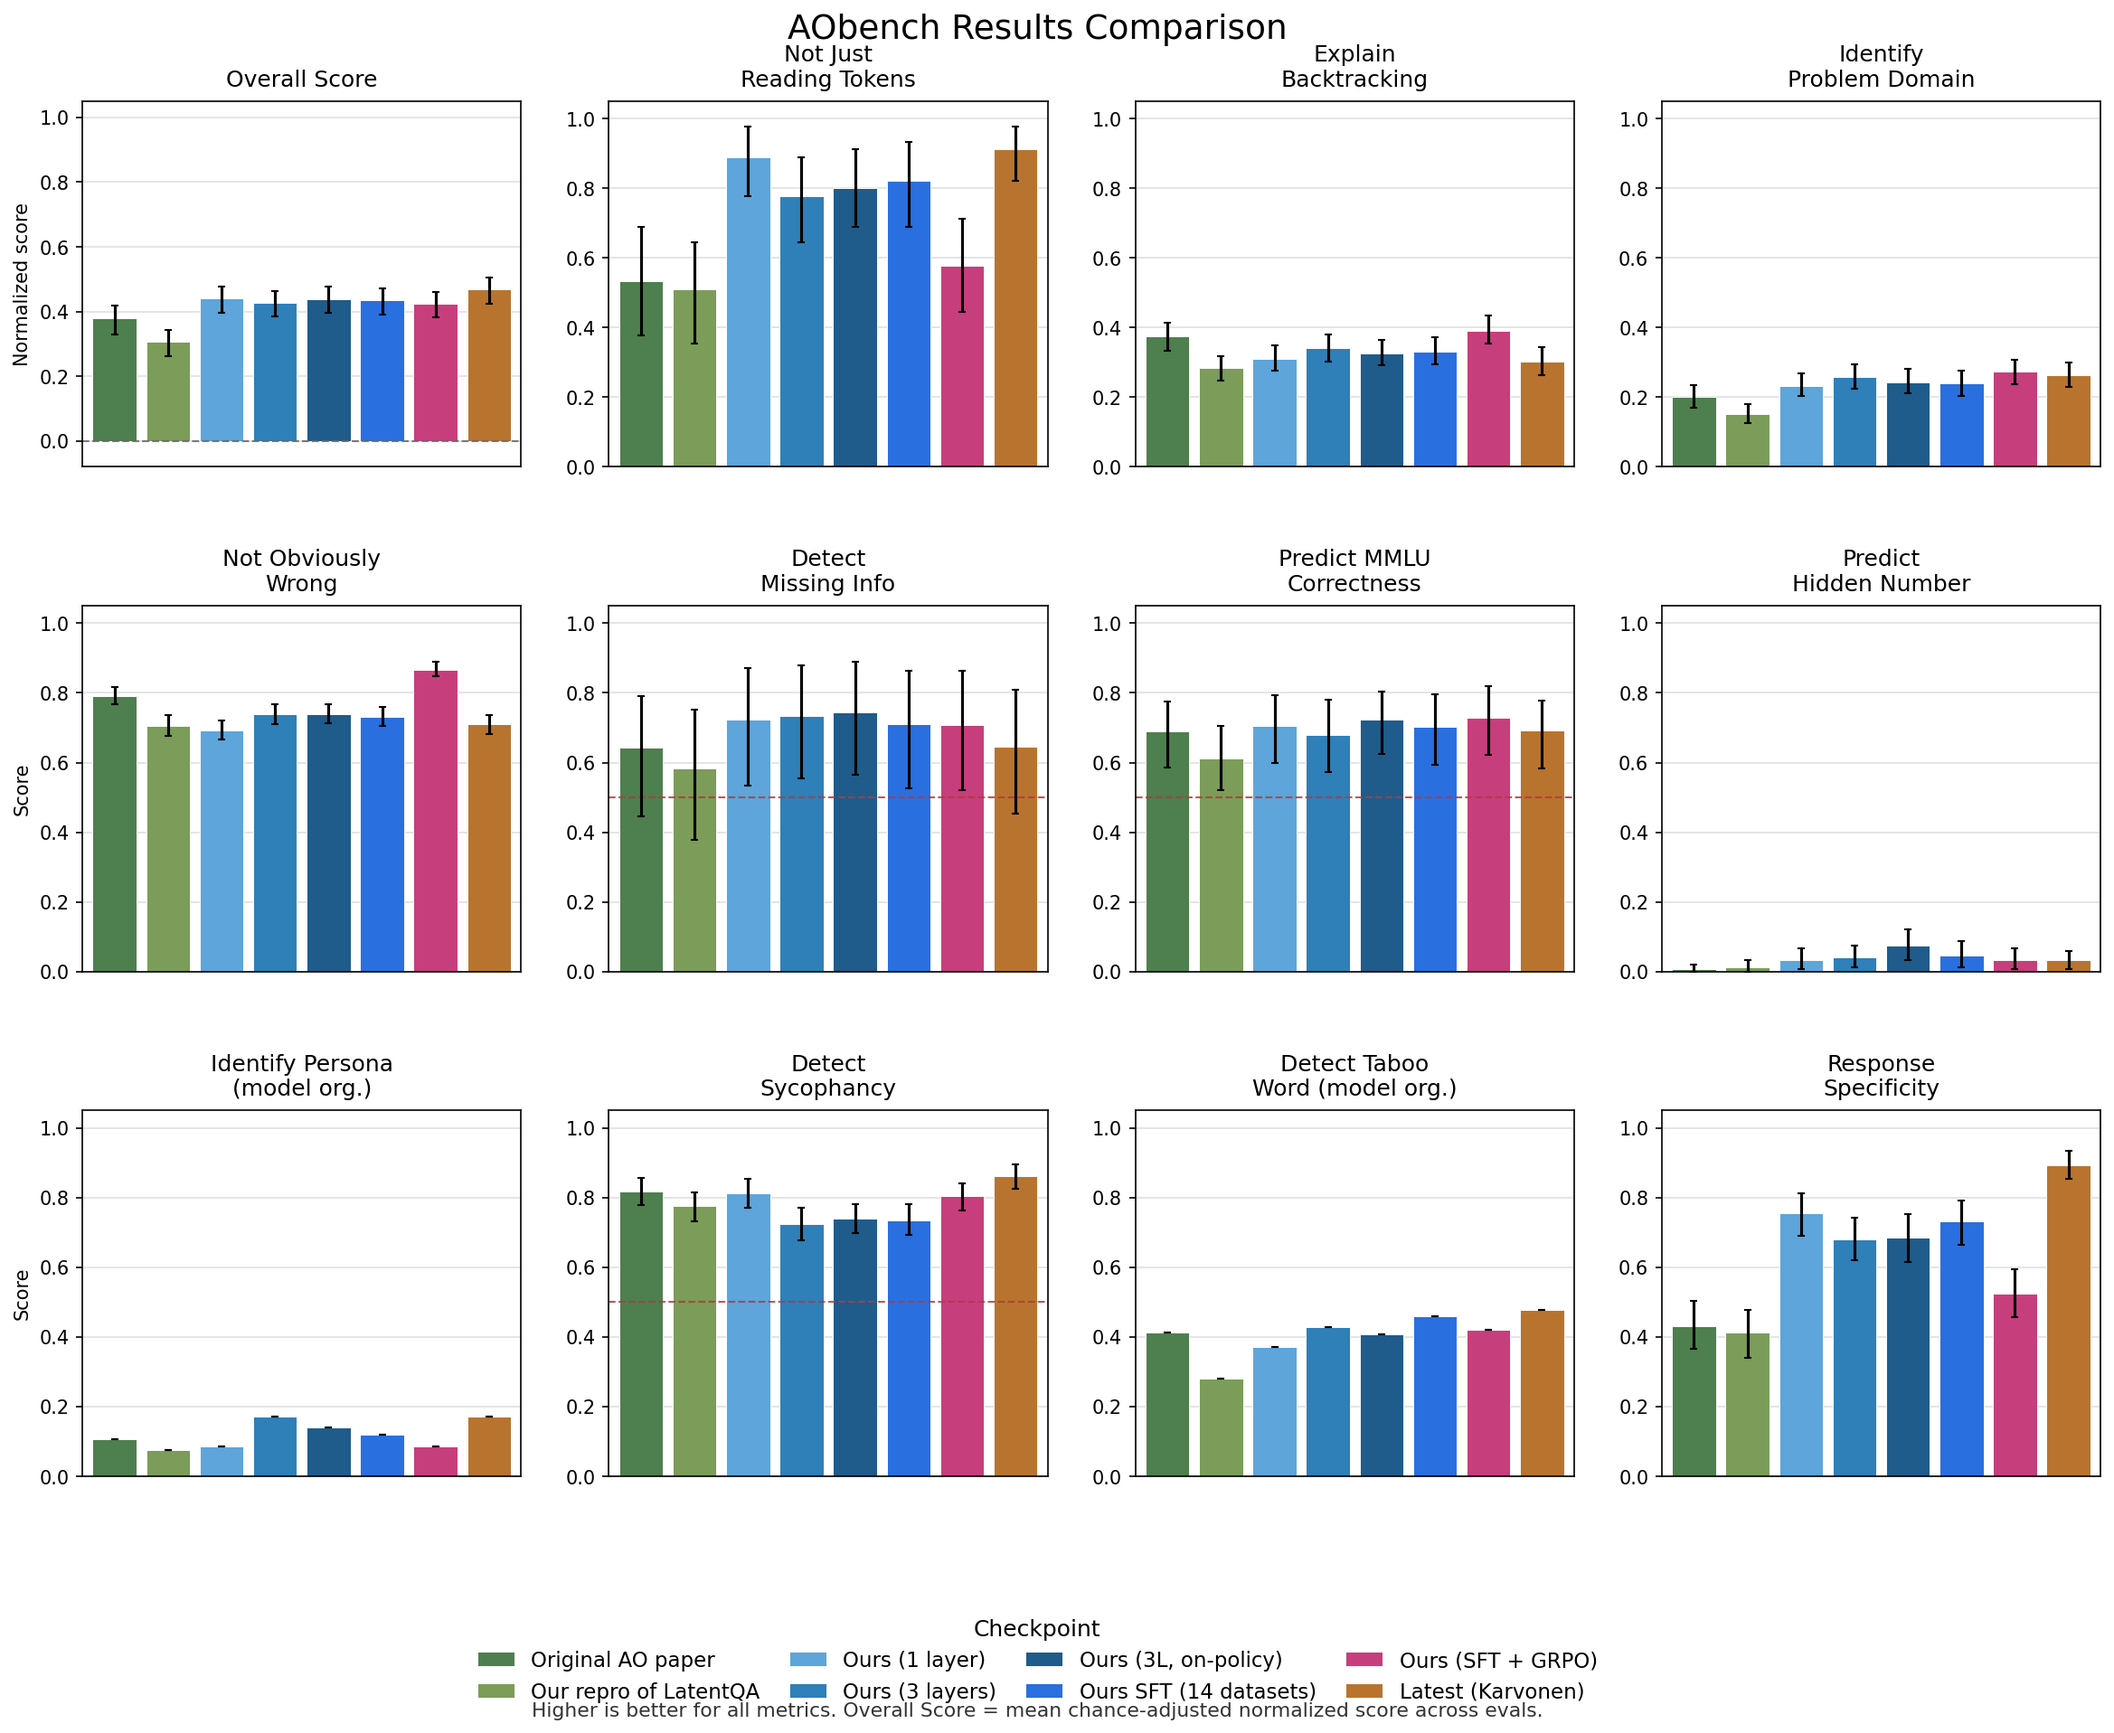
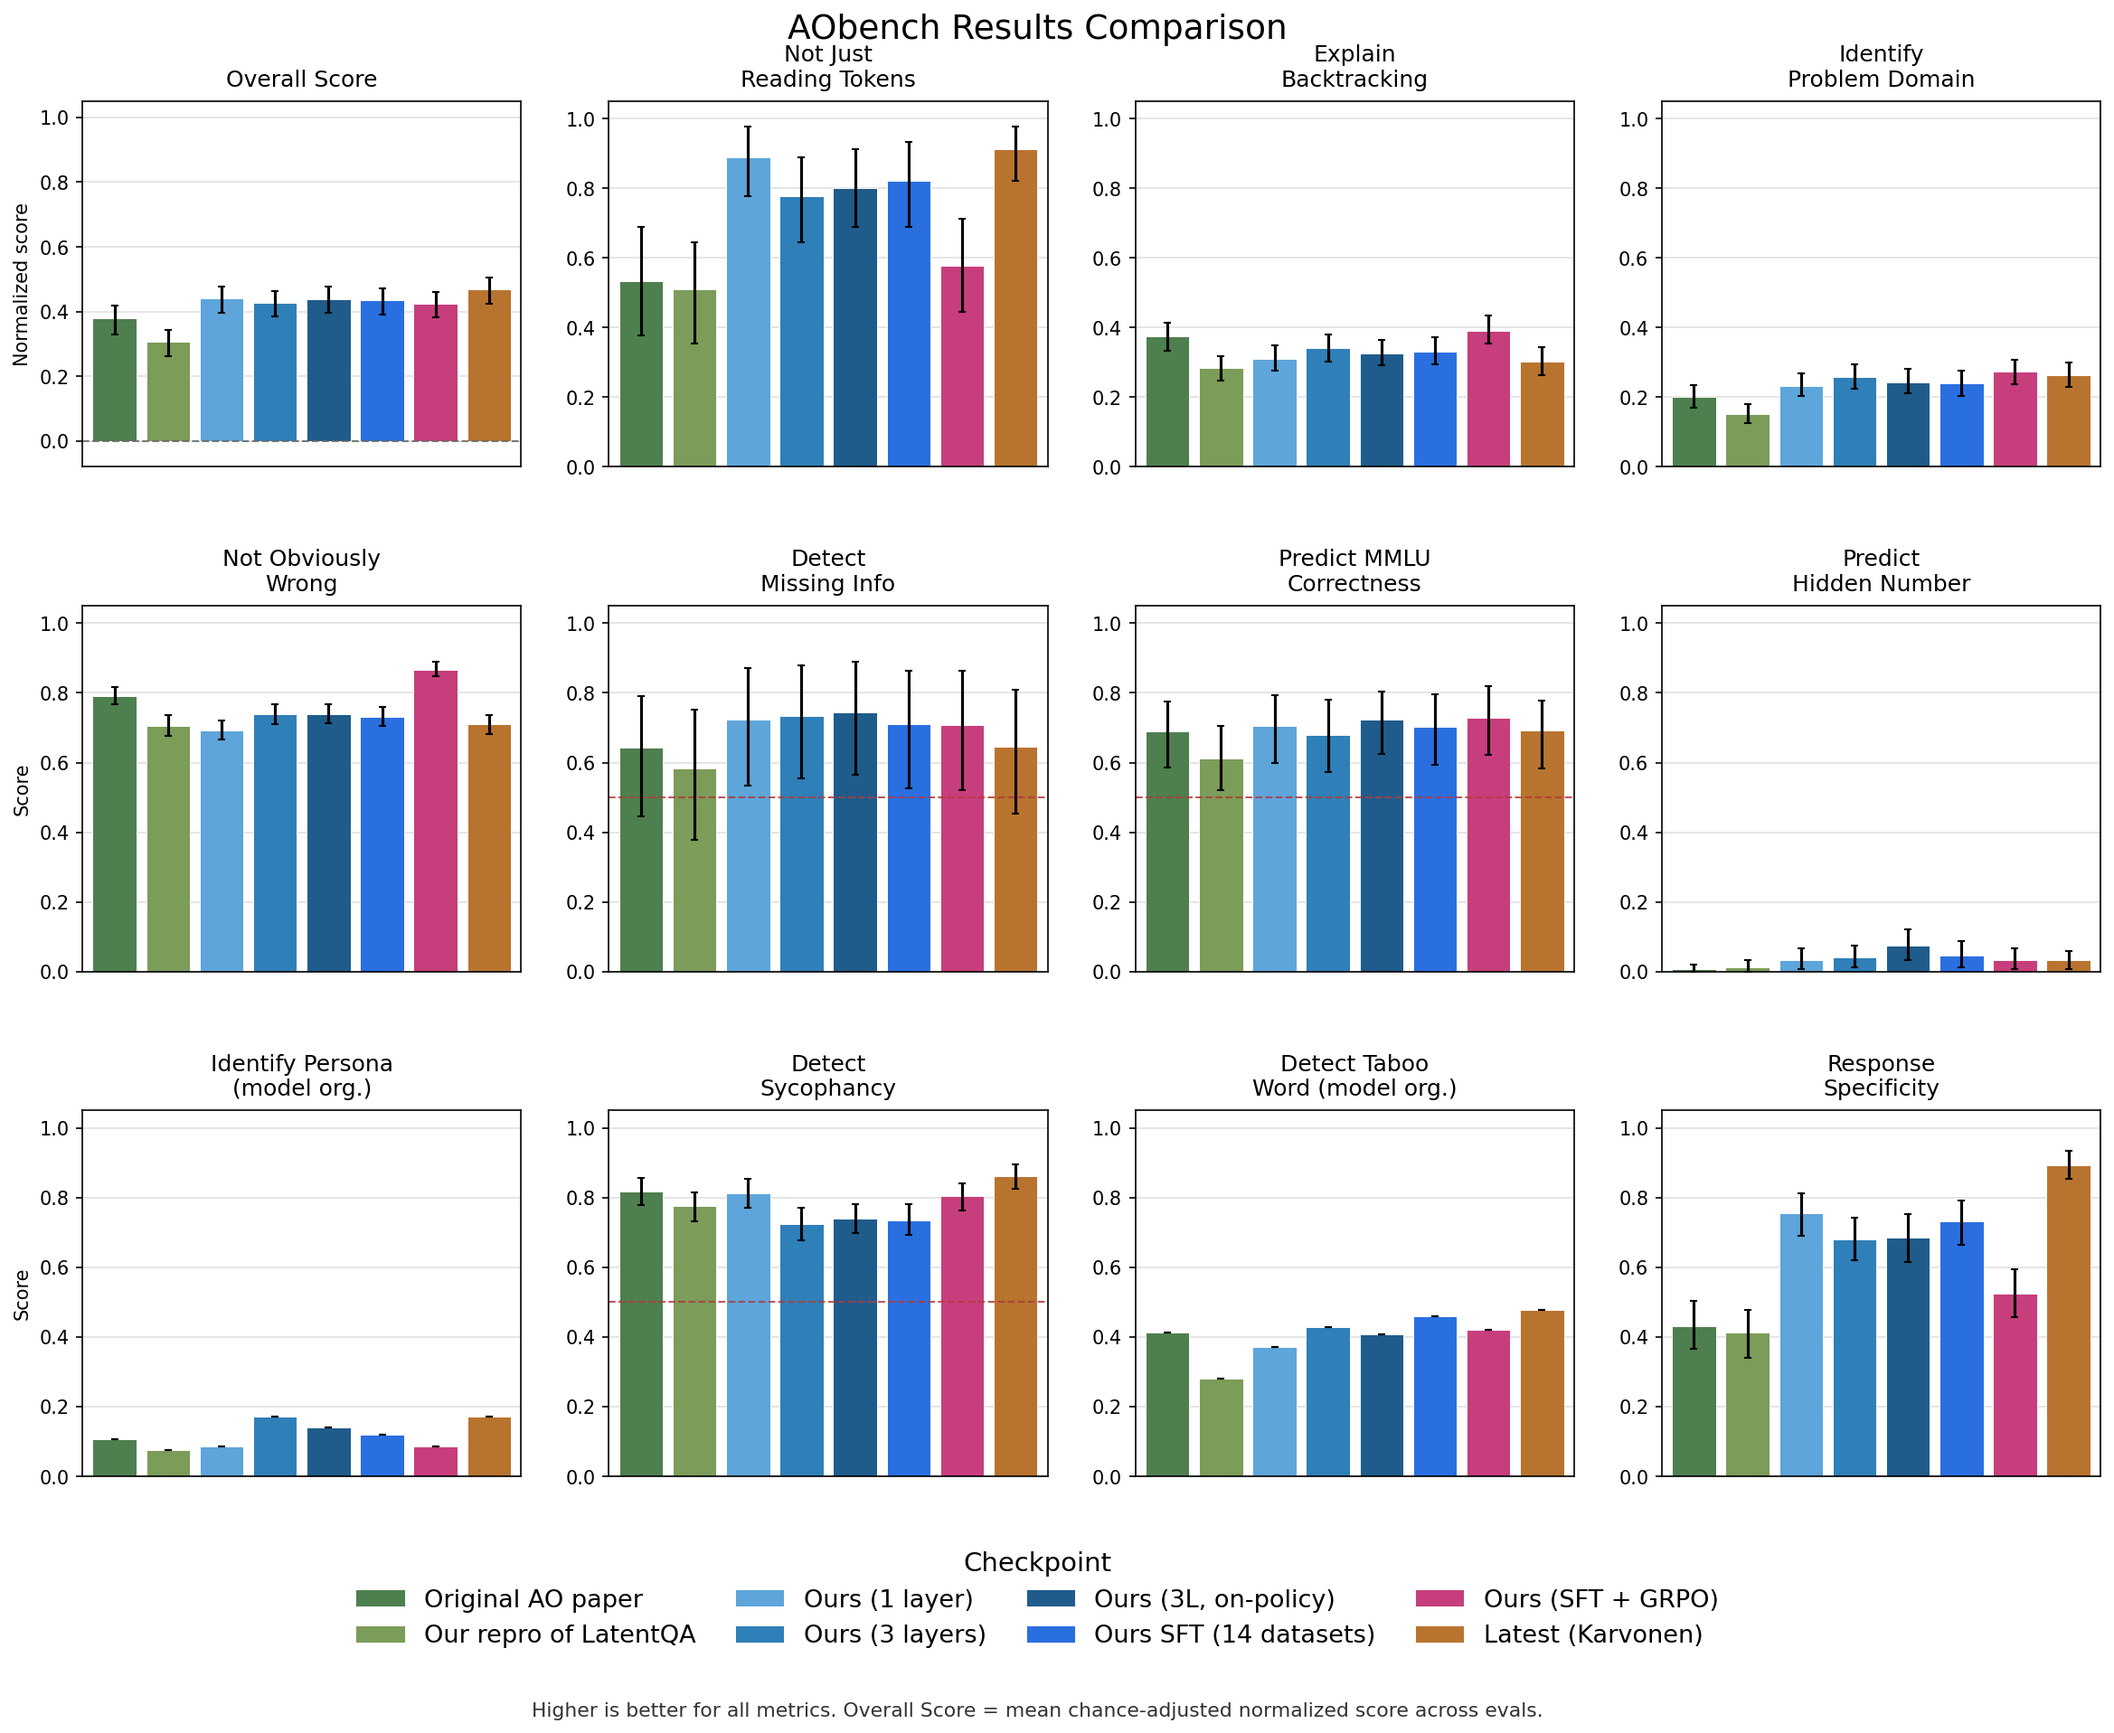
AObench: bigger legend (fontsize 13), moved up

Changed region(s): [[0.3435, 0.8925, 0.8118, 0.9849], [0.1561, 0.8925, 0.3435, 0.9849]]

diff --git a/AObench/utils/report.py b/AObench/utils/report.py
@@ -605,16 +605,16 @@ def plot_category_breakdown(
     fig.legend(
         handles=legend_handles,
         loc="upper center",
-        bbox_to_anchor=(0.5, 0.08),
+        bbox_to_anchor=(0.5, 0.12),
         ncol=min(4, n_verbs),
-        fontsize=11,
+        fontsize=13,
         title="Checkpoint",
         frameon=False,
-        columnspacing=1.4,
-        handlelength=1.8,
+        columnspacing=1.6,
+        handlelength=2.0,
     )
     if fig.legends:
-        fig.legends[0].get_title().set_fontsize(12)
+        fig.legends[0].get_title().set_fontsize(14)
 
     fig.suptitle(title, fontsize=16, y=0.98)
     fig.subplots_adjust(left=0.06, right=0.99, top=0.90, bottom=0.18, wspace=0.2)
@@ -741,16 +741,16 @@ def plot_comparison_bar_chart(
     legend = fig.legend(
         handles=legend_handles,
         loc="upper center",
-        bbox_to_anchor=(0.5, 0.08),
+        bbox_to_anchor=(0.5, 0.12),
         ncol=min(4, n_verbs),
-        fontsize=11,
+        fontsize=13,
         title="Checkpoint",
         frameon=False,
-        columnspacing=1.4,
-        handlelength=1.8,
+        columnspacing=1.6,
+        handlelength=2.0,
     )
     if legend.get_title() is not None:
-        legend.get_title().set_fontsize(12)
+        legend.get_title().set_fontsize(14)
 
     fig.text(
         0.5,
